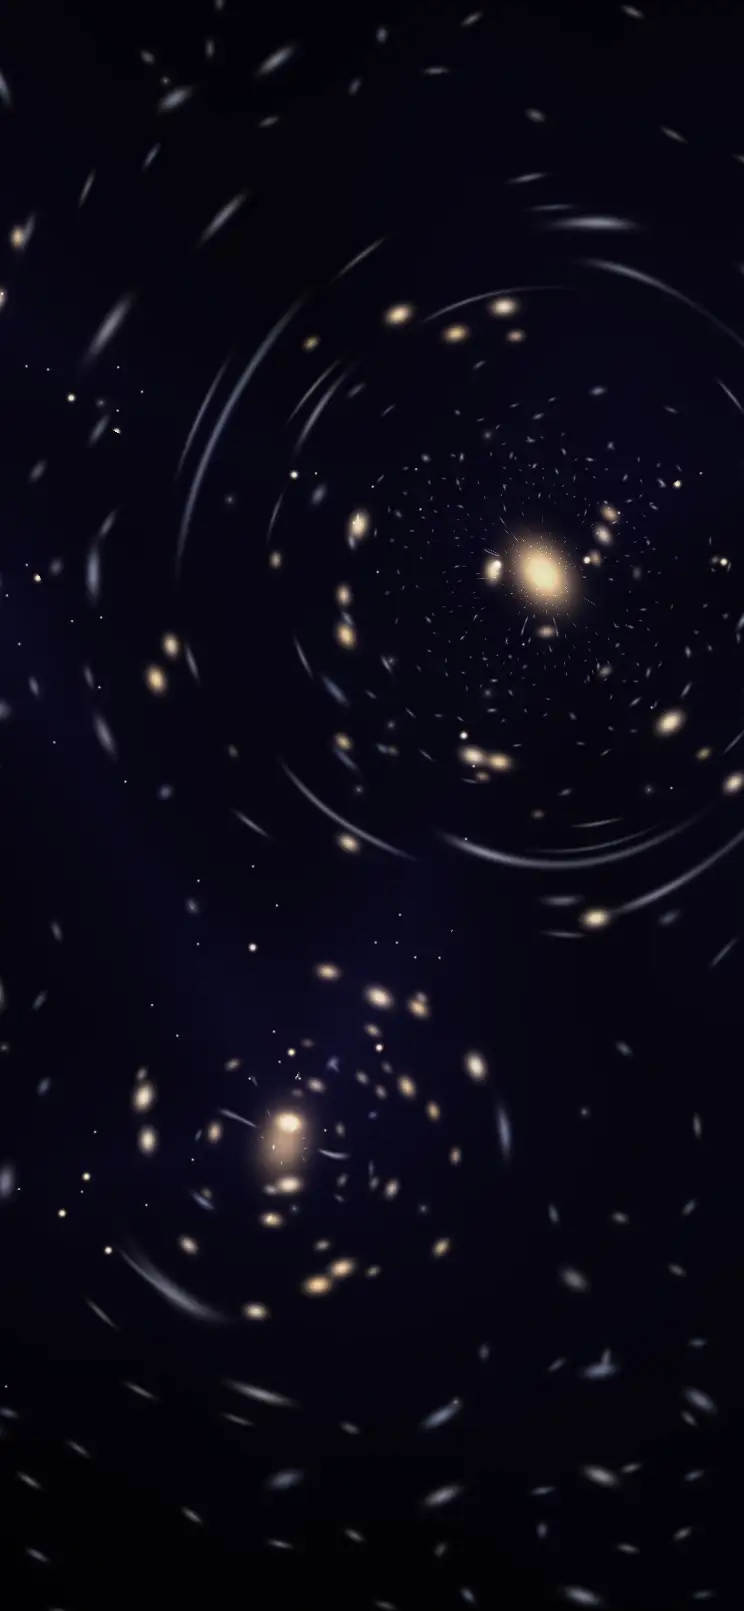
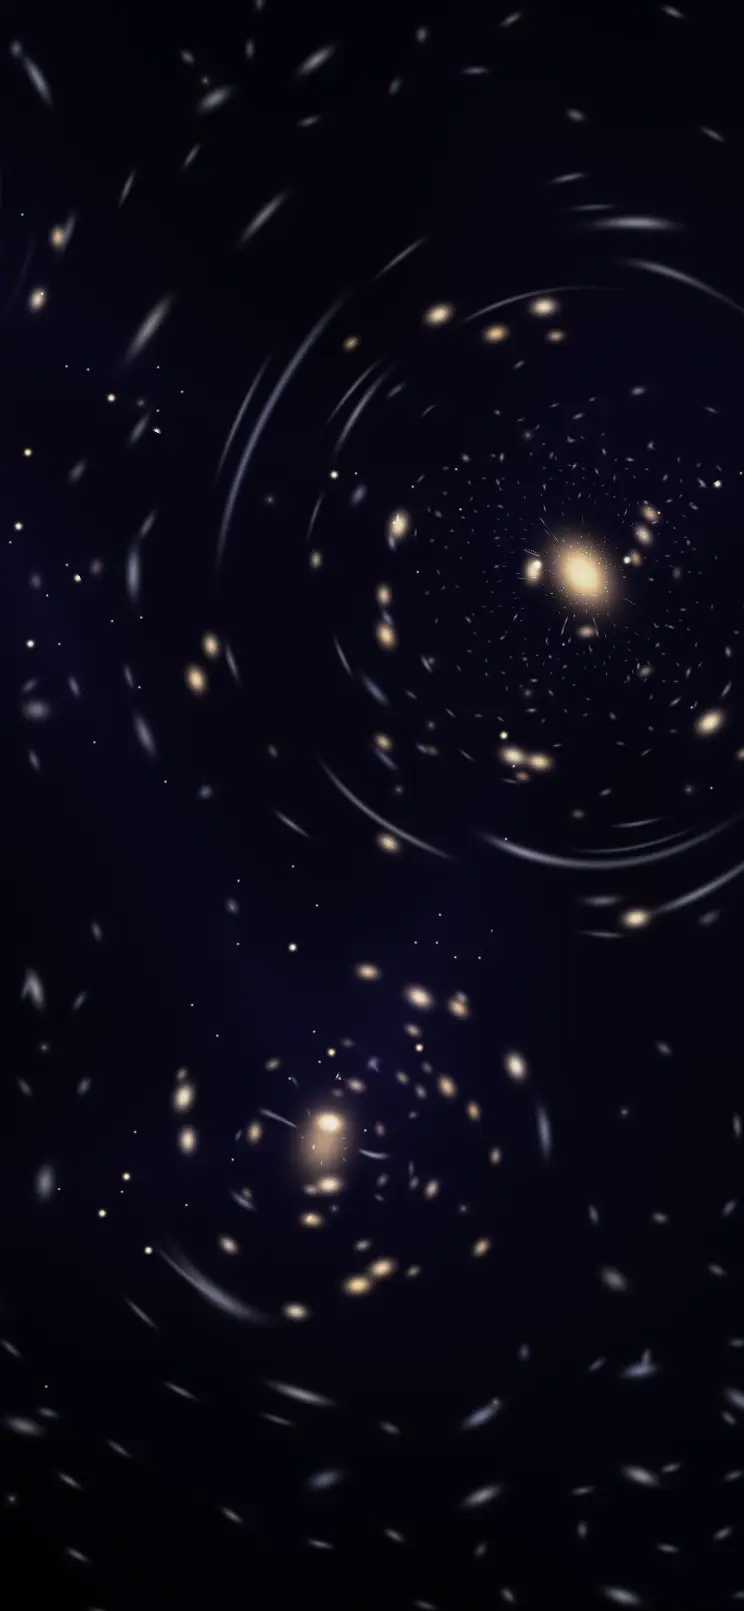
🐛 fix: Keep the Dark Matter Web centred late in a visit

diff --git a/src/scene/scenes/dark-matter/index.tsx b/src/scene/scenes/dark-matter/index.tsx
@@ -82,7 +82,9 @@ void main(){
   vec2 q = css - uCentre;
   q.y = -q.y;
   float t = uTime;
-  vec2 u = q / uScale + vec2(-uYaw, uPitch) * 0.45 + vec2(t * 0.004, 0.0);
+  // a slow sway, never a drift: the clock runs for the whole visit, and a steady pan had carried the
+  // clumps off the screen by the time a visitor got here
+  vec2 u = q / uScale + vec2(-uYaw, uPitch) * 0.45 + vec2(0.03 * sin(t * 0.05), 0.0);
 
   // ---- the far galaxies, their light bent round each unseen clump ----
   vec2 src = u;
